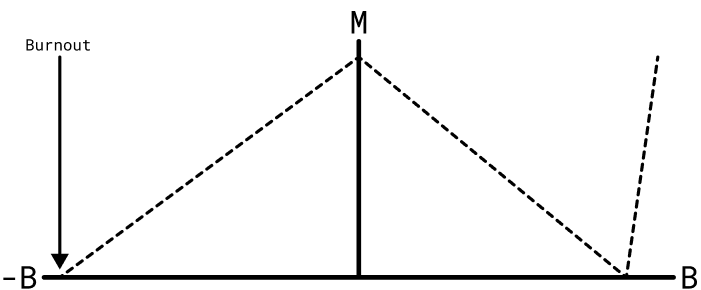
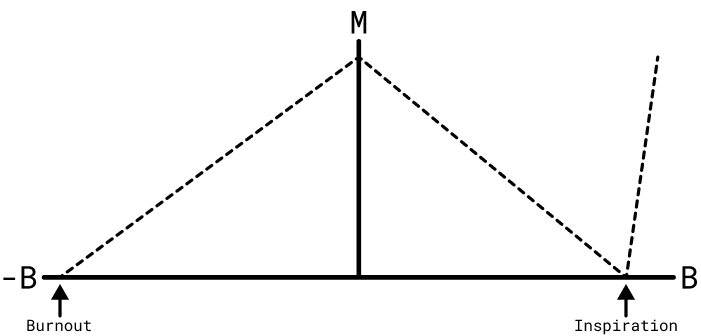
done.

diff --git a/content/posts/the-boredom-motivation-correlation.md b/content/posts/the-boredom-motivation-correlation.md
@@ -10,10 +10,23 @@ What happens at work often affects my ability to get things done outside of work
 > Human beings, it seems, are at their best when immersed in something deeply challenging.  
 > \- [James Clear][james-clear] | [Atomic Habits][atomic-habits]
 
-![boredom constant][boredom-constant]
+In my experience, boredom has a direct negative effect on motivation. It happens in a linear fashion, as boredom increases, motivation decreases. I find myself in these situations when I'm not getting enough focus time or there isn't enough work to keep my output high as I like.
+
 ![boredom linear][boredom-linear]
+
+But there is a breaking point. Eventually, I become so bored and unmotivated that I find inspiration and create a project for myself to invest in, and my motivation shoots back up. Typically these projects are personal projects, not work related projects. We can adjust the graph to look something like this.
+
 ![boredom spike][boredom-spike]
+
+My motivation can also be affected by being too busy at work, which would be the opposite of boredom. In my case being busy decreases my motivation slower than boredom. I'm still getting things done and feeling productive, but it comes with a high mental cost. Work feels overwhelming, but I'm also knocking out side projects leads in my free time. This high rate of productivity on work and personal projects eventually leads to burnout. With this in mind, we can see the whole picture.
+
 ![boredom full][boredom-full]
+
+The **Boredom / Motivation Correlation** is a spectrum that shifts every day for me. Some days I'm super productive and highly motivated because taking on a balanced amount of work at the proper challenge. Other days I don't have a full task list or I have too many meetings and all I want to do is check out mentally and play video games. On the days where I do feel unmotivated, I lift weights or go for a run to shake off that feeling, and then spend time with my family to re-energize myself.
+
+![boredom constant][boredom-constant]
+
+Ideally, boredom and busyness would not have any effect on motivation, and the graph would look something like the one above. If you have mastered your motivation levels and broken the correlation, [tweet at me][twitter] and share your tips on how you did it!
 
 [boredom-constant]: /images/posts/boredom-constant.png
 [boredom-full]: /images/posts/boredom-full.png
@@ -21,3 +34,4 @@ What happens at work often affects my ability to get things done outside of work
 [boredom-spike]: /images/posts/boredom-spike.png
 [james-clear]: https://twitter.com/JamesClear
 [atomic-habits]: https://www.amazon.com/Atomic-Habits-Proven-Build-Break/dp/0735211299?tag=bradgarropy00-20
+[twitter]: https://twitter.com/bradgarropy
